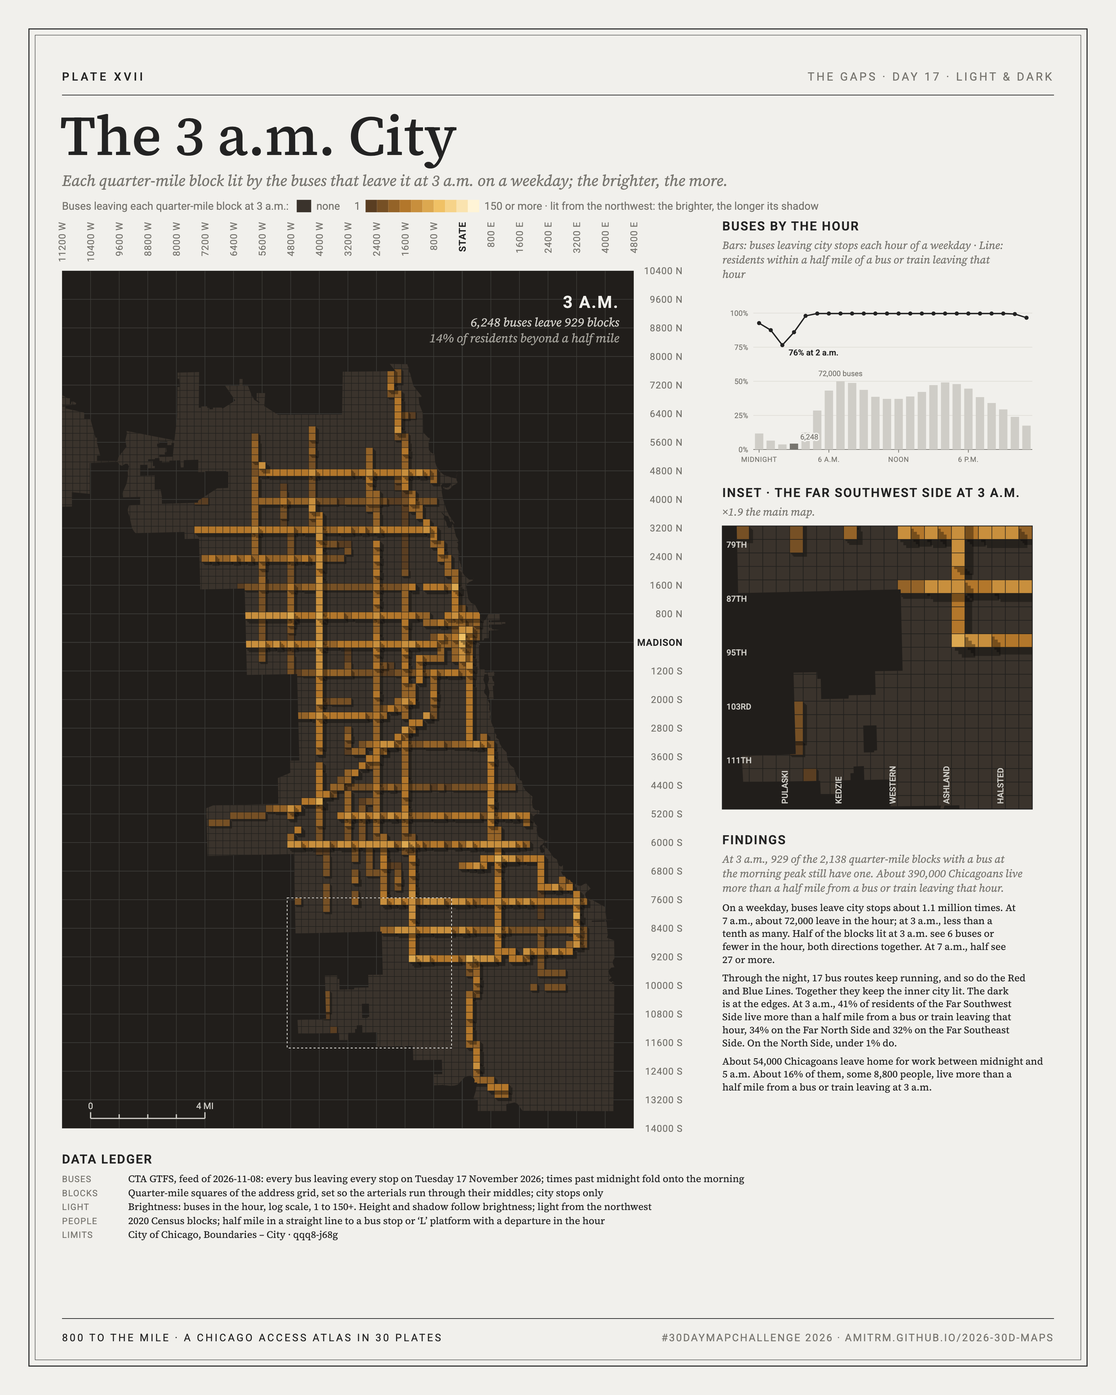
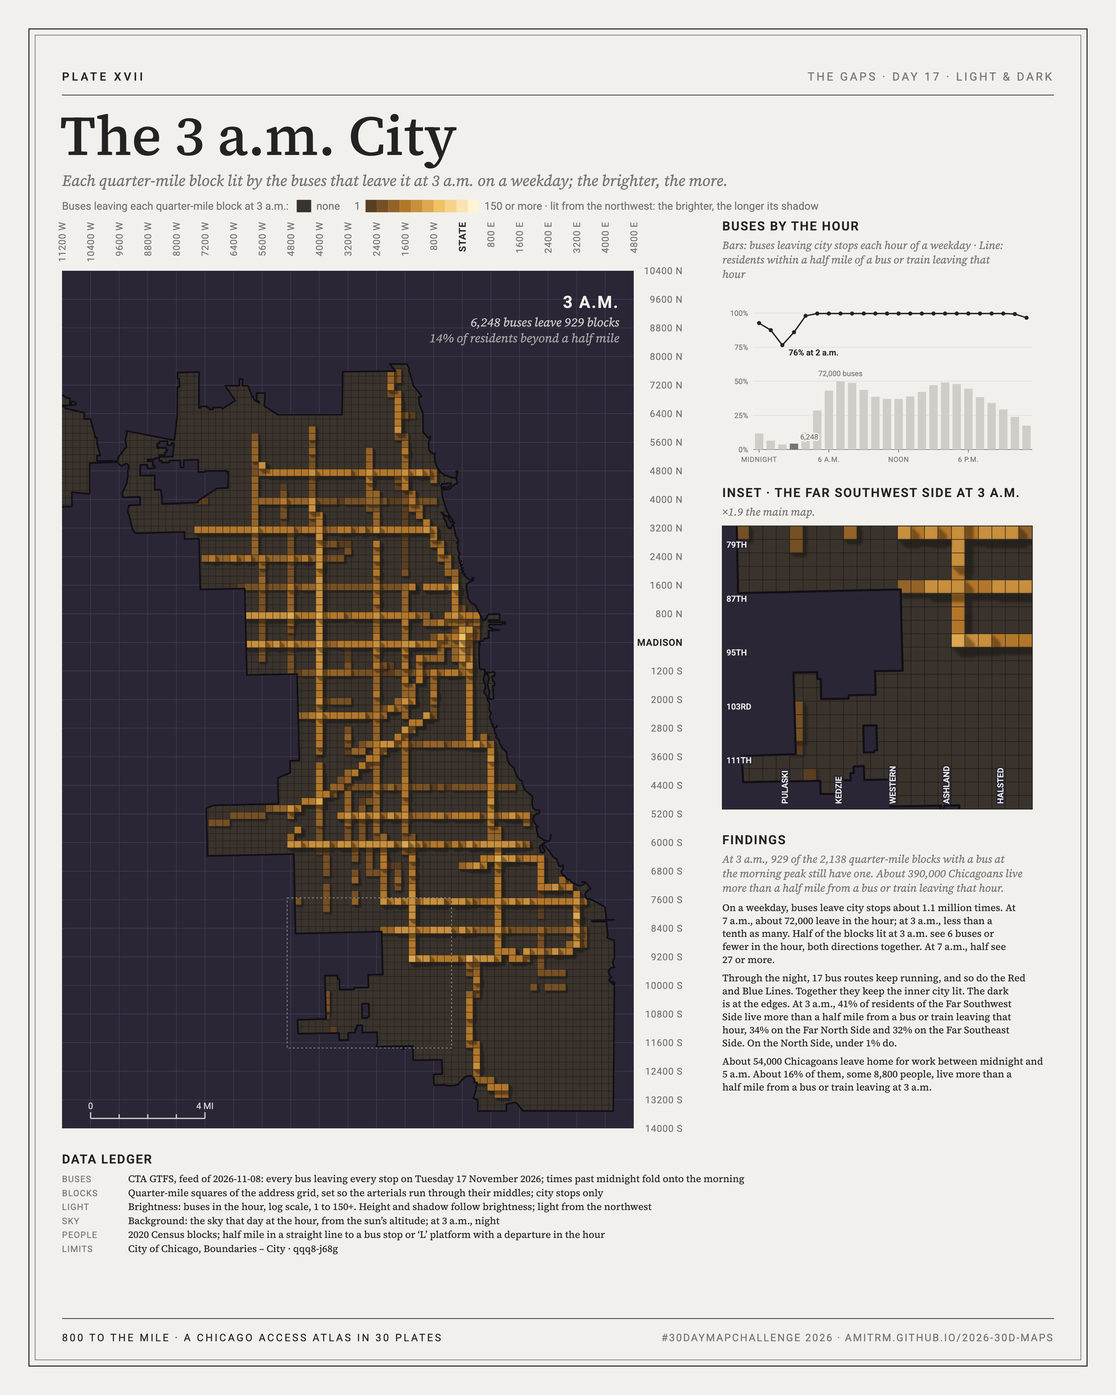
Day 17: sky background by hour, soft-edged vector shadows, city-limit line

diff --git a/src/plates/day17.js b/src/plates/day17.js
@@ -3,17 +3,21 @@ import { C, SERIF, esc, text, textWidth, legendBox, wrap, frame, svg } from '../
 import { gridLines, formatAddress, toMiles } from '../lib/grid.js';
 
 // variant 'plate': the full 1080 x 1350 plate (export, download), at 3 a.m.
-// variant 'map': the map alone, with hover hooks, for the day page's left column. It carries 25 states:
-//   <g data-state="all"> (3 a.m., as the plate) and <g data-state="h00">…<g data-state="h23"> (hidden).
+// variant 'map': the map alone, with hover hooks, for the day page's left column. It carries 24 states:
+//   <g data-state="all"> (3 a.m., as the plate) and <g data-state="h00">…<g data-state="h23"> (hidden),
+//   except h03, which is 'all'.
 // variant 'chart': buses leaving city stops each hour and the share of residents within a half mile of a
 //   departure; each hour is a control, [data-state-key="hNN"], that shows that hour on the map and inset.
 // variant 'inset': the Far Southwest Side, with the same 25 states.
-// The map is made of light and shadow only. Each quarter-mile block of the address grid (centered on the
-// quarter-mile lines, so the half-mile arterials run through the middle of a block) is lit by the buses
-// leaving its stops in the hour: brighter = more. Each block also stands up in proportion to its light,
-// toward a light in the northwest, and casts a mild shadow to the southeast (an SVG filter per class:
-// the class's blocks, offset along the light, in black at SHADOW opacity). Classes are drawn from dim to
-// bright, so a taller block covers the shadows that fall on it. Thin gutters mark the blocks.
+// The map is made of light and shadow only. Each quarter-mile block of the address grid (set so the
+// arterials run through the middle of a block) is lit by the buses leaving its stops in the hour:
+// brighter = more. Each block also stands up in proportion to its light, toward a light in the
+// northwest, and casts a shadow to the southeast (per class, the class's blocks swept along the light,
+// drawn as exact polygons; each class's sweep is masked off blocks as tall or taller, and all sweeps sit
+// in one group at SHADOW opacity, so a block in two shadows darkens once, with a slight blur, SOFT, on
+// the group's edges). Thin gutters mark the blocks.
+// The background is the sky of that day at that hour (data.hours.sky, from the sun's altitude in the
+// notebook): night to day, SKY[mode]. The city limit is a line in a darker shade of that sky.
 
 // buses leaving a block in the hour: class c (1–10) from BREAKS[c - 1]
 export const BREAKS = [1, 2, 4, 7, 12, 20, 35, 60, 100, 150];
@@ -21,6 +25,7 @@ const CAP = 150;
 const ALT = 38; // the light's altitude, degrees
 const HMAX = 1.3; // the brightest block's height, in blocks
 const SHADOW = 0.34;
+const SOFT = 1.5; // the shadow's blurred edge: Gaussian σ in path units (a block is 20)
 const U = 20; // path units per block
 const GAP = '#1B1B1A'; // gutters
 
@@ -40,7 +45,9 @@ const RAMPS = {
   color: ramp(['#5A3E22', '#B87A2C', '#F2C467', '#FFF4D6']),
 };
 export const NONE = { gray: '#363634', color: '#3A332C' }; // a city block with no bus in the hour
-const FIELD = { gray: C.ink, color: '#211E1B' };
+// the sky: night, then full day (grayscale: the same lightness, without hue)
+const SKY = { gray: ['#262626', '#DDDDDD'], color: ['#2A2636', '#DADFCA'] };
+const mix = (a, b, t) => { const B = rgb(b); return hex(rgb(a).map((v, i) => v + (B[i] - v) * t)); };
 export const shade = (mode, c) => (c === 0 ? NONE[mode] ?? NONE.gray : (RAMPS[mode] ?? RAMPS.gray)(Math.pow((c - 1) / 9, 1.05)));
 const clsOf = (n) => BREAKS.filter((b) => n >= b).length;
 
@@ -60,10 +67,18 @@ export function renderDay17(data, { mode = 'gray', variant = 'plate' } = {}) {
   const hooks = isMap || isChart || isInset;
   const uid = `d17-${variant}-${mode}`;
   const T = isMap || isChart ? 1.3 : 1.15;
-  const field = FIELD[mode] ?? FIELD.gray;
   const night = data.night;
-  const states = hooks ? ['all', ...hours.departures.map((_, h) => `h${String(h).padStart(2, '0')}`)] : ['all'];
+  // 'all' is 3 a.m. (the plate's hour), so the 3 a.m. control shows 'all' and has no state of its own
+  const keyOf = (h) => (h === night ? 'all' : `h${String(h).padStart(2, '0')}`);
+  const states = hooks ? ['all', ...hours.departures.map((_, h) => h).filter((h) => h !== night).map(keyOf)] : ['all'];
   const hourOf = (st) => (st === 'all' ? night : Number(st.slice(1)));
+  const sky = SKY[mode] ?? SKY.gray;
+  const skyOf = (h) => mix(sky[0], sky[1], hours.sky[h]);
+  const onSky = (h) => (hours.sky[h] > 0.5 ? C.ink : C.paper); // text and lines over the sky
+  const tone = (h, t) => mix(skyOf(h), onSky(h), t);
+  const limitOf = (h) => mix(skyOf(h), '#000000', 0.6); // the city limit: a darker shade of the sky
+  // one copy per state (all, then the 24 hours; the plate has 'all' only), hidden but the first
+  const perState = (fn, attrs = '') => states.map((st) => `<g data-state="${st}"${st === 'all' ? '' : ' display="none"'}${attrs}>${fn(hourOf(st))}</g>`).join('');
   const r1 = (v) => (+v.toFixed(1)).toString();
   const miles = (b) => ({ west: toMiles(b.west, 'x'), east: toMiles(b.east, 'x'), south: toMiles(b.south, 'y'), north: toMiles(b.north, 'y') });
   const addrY = (y) => (y >= 0 ? y * 800 : y >= -1 ? y * 1200 : -1200 + (y + 1) * 800);
@@ -76,42 +91,55 @@ export function renderDay17(data, { mode = 'gray', variant = 'plate' } = {}) {
   const cy = (j) => rows[j][0];
   const yU = (m) => +(((NTOP - m) / G.step) * U).toFixed(2); // miles north -> path units down
 
-  // shadow filters, one per class, in the blocks' own units (the group is scaled to U units a block)
-  const tan = Math.tan((ALT * Math.PI) / 180);
-  const filters = () => {
-    const f = [];
-    for (let c = 1; c <= 10; c++) {
-      const L = ((HMAX * level(c)) / tan) * U / Math.SQRT2; // along x and y, toward the southeast
-      const offs = [1 / 3, 2 / 3, 1].map((p, i) => `<feOffset in="SourceAlpha" dx="${r1(L * p)}" dy="${r1(L * p)}" result="o${i}"/>`).join('');
-      f.push(`<filter id="${uid}-s${c}" filterUnits="userSpaceOnUse" x="${-2 * U}" y="${-2 * U}" width="${(G.nx + 4) * U}" height="${(rows.length + 4) * U}" color-interpolation-filters="sRGB">${offs}<feMerge result="m"><feMergeNode in="o0"/><feMergeNode in="o1"/><feMergeNode in="o2"/></feMerge><feFlood flood-color="#000" flood-opacity="${SHADOW}"/><feComposite in2="m" operator="in" result="sh"/><feMerge><feMergeNode in="sh"/><feMergeNode in="SourceGraphic"/></feMerge></filter>`);
-    }
-    return `<defs>${f.join('')}</defs>`;
-  };
   // one row run of blocks, in path units
   const run = (i0, i1, j) => `M${i0 * U} ${yU(rows[j][2])}h${(i1 - i0 + 1) * U}v${+(yU(rows[j][1]) - yU(rows[j][2])).toFixed(2)}h${-(i1 - i0 + 1) * U}z`;
-  const runs = (list) => {
-    // list: [i, j] of one class; merge horizontal neighbours
+  // list: [i, j] of one class; merge horizontal neighbours into runs [first i, last i, j]
+  const segments = (list) => {
     const rows = new Map();
     for (const [i, j] of list) (rows.get(j) ?? rows.set(j, []).get(j)).push(i);
-    let d = '';
+    const out = [];
     for (const [j, is] of rows) {
       is.sort((a, b) => a - b);
       let a = is[0], b = is[0];
       for (const i of [...is.slice(1), null]) {
         if (i === b + 1) { b = i; continue; }
-        d += run(a, b, j);
+        out.push([a, b, j]);
         if (i != null) a = b = i;
       }
     }
-    return d;
+    return out;
+  };
+  const runs = (list) => segments(list).map(([a, b, j]) => run(a, b, j)).join('');
+  // shadows, as geometry: a run swept toward the southeast along the light, as long as its class
+  // stands tall (the hull of the run and its copy, clockwise, in relative steps)
+  const tan = Math.tan((ALT * Math.PI) / 180);
+  const reach = (c) => ((HMAX * level(c)) / tan) * U / Math.SQRT2; // along x and along y, path units
+  const sweep = ([a, b, j], d) => {
+    const w = (b - a + 1) * U, yt = yU(rows[j][2]), hh = +(yU(rows[j][1]) - yt).toFixed(1), dd = Math.round(d);
+    return `M${a * U} ${yt}h${w}l${dd} ${dd}v${hh}h${-w}l${-dd} ${-dd}z`;
   };
   const inBox = (box) => (c) => !box || (cx(c[0]) >= box.west - 0.2 && cx(c[0]) <= box.east + 0.2 && cy(c[1]) >= box.south - 0.2 && cy(c[1]) <= box.north + 0.2);
-  // the lit blocks of one hour, dim to bright, each class with its shadow
-  const hourLayer = (h, box) => {
+  // the lit blocks of one hour, and their shadows: each class's sweep, masked off the blocks as tall or
+  // taller (its own included), all drawn solid inside one group at SHADOW opacity
+  const hourLayer = (h, box, key) => {
     const by = Array.from({ length: 11 }, () => []);
     for (const c of cells) if (inBox(box)(c)) by[clsOf(c[2][h])].push(c);
-    return by.map((list, c) => (c && list.length ? `<path d="${runs(list)}" fill="${shade(mode, c)}" filter="url(#${uid}-s${c})"/>` : '')).join('');
+    const id = (c) => `${uid}-${key}-b${c}`;
+    const lit = by.map((l, c) => c && l.length > 0);
+    const defs = [], blocks = [], shadows = [];
+    by.forEach((list, c) => {
+      if (!lit[c]) return;
+      const seg = segments(list);
+      defs.push(`<path id="${id(c)}" d="${seg.map(([a, b, j]) => run(a, b, j)).join('')}"/>`);
+      blocks.push(`<use href="#${id(c)}" fill="${shade(mode, c)}"/>`);
+      const taller = by.map((_, t) => (t >= c && lit[t] ? `<use href="#${id(t)}" fill="#000"/>` : '')).join('');
+      defs.push(`<mask id="${id(c)}m" maskUnits="userSpaceOnUse" x="${-4 * U}" y="${-4 * U}" width="${(G.nx + 8) * U}" height="${(rows.length + 8) * U}"><rect x="${-4 * U}" y="${-4 * U}" width="${(G.nx + 8) * U}" height="${(rows.length + 8) * U}" fill="#fff"/>${taller}</mask>`);
+      shadows.push(`<path d="${seg.map((r) => sweep(r, reach(c))).join('')}" mask="url(#${id(c)}m)"/>`);
+    });
+    return `<defs>${defs.join('')}</defs>${blocks.join('')}<g fill="#000" opacity="${SHADOW}" filter="url(#${uid}-soft)">${shadows.join('')}</g>`;
   };
+  // the shadows' soft edge: one blur over the whole shadow layer, in the blocks' units
+  const softDef = `<defs><filter id="${uid}-soft" filterUnits="userSpaceOnUse" x="${-4 * U}" y="${-4 * U}" width="${(G.nx + 8) * U}" height="${(rows.length + 8) * U}"><feGaussianBlur stdDeviation="${SOFT}"/></filter></defs>`;
   // all city blocks, unlit, and the gutters over everything
   const baseLayer = (box) => `<path d="${runs([...dark, ...cells].filter(inBox(box)))}" fill="${NONE[mode] ?? NONE.gray}"/>`;
   const gutters = (box, w) => {
@@ -149,9 +177,9 @@ export function renderDay17(data, { mode = 'gray', variant = 'plate' } = {}) {
   // the state's name and numbers, in the lake
   const stateLabel = (st, x, y, size = 1) => {
     const h = hourOf(st);
-    return text(x, y, hourName(h).toUpperCase(), { size: 17 * size, weight: 600, spacing: 1.2, anchor: 'end', fill: C.paper }) +
-      text(x, y + 19 * size, `${fmt(hours.departures[h])} buses leave ${fmt(hours.lit[h])} blocks`, { size: 12.5 * size, font: SERIF, italic: true, fill: C.fog, anchor: 'end' }) +
-      text(x, y + 35 * size, `${pctEnd(1 - hours.within[h])} of residents beyond a half mile`, { size: 12.5 * size, font: SERIF, italic: true, fill: '#A4A29B', anchor: 'end' });
+    return text(x, y, hourName(h).toUpperCase(), { size: 17 * size, weight: 600, spacing: 1.2, anchor: 'end', fill: onSky(h) }) +
+      text(x, y + 19 * size, `${fmt(hours.departures[h])} buses leave ${fmt(hours.lit[h])} blocks`, { size: 12.5 * size, font: SERIF, italic: true, fill: tone(h, 0.8), anchor: 'end' }) +
+      text(x, y + 35 * size, `${pctEnd(1 - hours.within[h])} of residents beyond a half mile`, { size: 12.5 * size, font: SERIF, italic: true, fill: tone(h, 0.62), anchor: 'end' });
   };
 
   if (isPlate) out.push(frame({
@@ -183,17 +211,19 @@ export function renderDay17(data, { mode = 'gray', variant = 'plate' } = {}) {
 
   if (isPlate || isMap) {
     const city = cityPath(X, Y);
-    out.push(filters());
     out.push(`<defs><clipPath id="${uid}-map"><rect x="${fx0}" y="${fy0}" width="${fx1 - fx0}" height="${fy1 - fy0}"/></clipPath><clipPath id="${uid}-city"><path d="${city}" clip-rule="evenodd"/></clipPath></defs>`);
     out.push(`<g clip-path="url(#${uid}-map)">`);
-    out.push(`<rect x="${fx0}" y="${fy0}" width="${fx1 - fx0}" height="${fy1 - fy0}" fill="${field}"/>`);
-    for (const x of g.xs) out.push(`<line x1="${X(x)}" x2="${X(x)}" y1="${fy0}" y2="${fy1}" stroke="#3B3A37" stroke-width="${x === 0 ? 0.9 : 0.6}"/>`);
-    for (const y of g.ys) out.push(`<line x1="${fx0}" x2="${fx1}" y1="${Y(y)}" y2="${Y(y)}" stroke="#3B3A37" stroke-width="${y === 0 ? 0.9 : 0.6}"/>`);
+    // the sky and the mile grid, per hour
+    const gridD = g.xs.map((x) => `M${r1(X(x))},${r1(fy0)}V${r1(fy1)}`).join('') + g.ys.map((y) => `M${r1(fx0)},${r1(Y(y))}H${r1(fx1)}`).join('');
+    out.push(perState((h) => `<rect x="${fx0}" y="${fy0}" width="${fx1 - fx0}" height="${fy1 - fy0}" fill="${skyOf(h)}"/><path d="${gridD}" fill="none" stroke="${tone(h, 0.11)}" stroke-width="0.6"/>`, ' pointer-events="none"'));
     out.push(`<g clip-path="url(#${uid}-city)"><g transform="${blockGroup(Xm, Ym, k)}">`);
-    out.push(baseLayer(all));
-    for (const st of states) out.push(`<g data-state="${st}"${st === 'all' ? '' : ' display="none"'}>${hourLayer(hourOf(st), all)}</g>`);
+    out.push(softDef, baseLayer(all));
+    for (const st of states) out.push(`<g data-state="${st}"${st === 'all' ? '' : ' display="none"'}>${hourLayer(hourOf(st), all, st)}</g>`);
     out.push(gutters(all, U * 0.07));
     out.push('</g></g>');
+    // the city limit: a line in a darker shade of the sky, at every hour
+    out.push(`<defs><path id="${uid}-limit" d="${city}" fill="none" stroke-linejoin="round"/></defs>`);
+    out.push(perState((h) => `<use href="#${uid}-limit" stroke="${limitOf(h)}" stroke-width="${isMap ? 2 : 1.6}"/>`, ' pointer-events="none"'));
     if (isMap) out.push(hits(Xm, Ym, k, all));
     // state label in the lake
     const lx = fx1 - 14, ly = fy0 + 36;
@@ -205,14 +235,16 @@ export function renderDay17(data, { mode = 'gray', variant = 'plate' } = {}) {
     for (const y of g.ys) out.push(text(colX, Y(y) + gl * 0.35, formatAddress(y, 'y'), { size: gl, spacing: 0.4, anchor: 'end', ...gridLabel(y) }));
 
     // the inset's box
-    out.push(`<rect${hooks ? ` data-inset-frame data-y0="${+Ym(0).toFixed(2)}"` : ''} x="${r1(Xm(IB.west))}" y="${r1(Ym(IB.north))}" width="${r1((IB.east - IB.west) * k)}" height="${r1((IB.north - IB.south) * k)}" fill="none" stroke="${C.paper}" stroke-width="0.7" stroke-dasharray="2 2"/>`);
+    out.push(`<rect${hooks ? ` data-inset-frame data-y0="${+Ym(0).toFixed(2)}"` : ''} x="${r1(Xm(IB.west))}" y="${r1(Ym(IB.north))}" width="${r1((IB.east - IB.west) * k)}" height="${r1((IB.north - IB.south) * k)}" fill="none" stroke="#8C8A84" stroke-width="0.8" stroke-dasharray="2 2"/>`);
 
-    // mile ruler, in fog on the dark field
+    // mile ruler, over the sky, per hour
     const rx = X(ext.west + 800), ry = Y(ext.south) - k * 0.35;
-    out.push(`<line x1="${rx}" x2="${rx + 4 * k}" y1="${ry}" y2="${ry}" stroke="${C.fog}" stroke-width="1.2"/>`);
-    for (let i = 0; i <= 4; i++) out.push(`<line x1="${rx + i * k}" x2="${rx + i * k}" y1="${ry - (i % 4 === 0 ? 6 : 4)}" y2="${ry}" stroke="${C.fog}" stroke-width="1.2"/>`);
-    out.push(text(rx, ry - 9, '0', { size: 7.5 * T, anchor: 'middle', fill: C.fog }));
-    out.push(text(rx + 4 * k, ry - 9, '4 MI', { size: 7.5 * T, anchor: 'middle', fill: C.fog }));
+    out.push(perState((h) => {
+      const c = tone(h, 0.85);
+      let r = `<line x1="${rx}" x2="${rx + 4 * k}" y1="${ry}" y2="${ry}" stroke="${c}" stroke-width="1.2"/>`;
+      for (let i = 0; i <= 4; i++) r += `<line x1="${rx + i * k}" x2="${rx + i * k}" y1="${ry - (i % 4 === 0 ? 6 : 4)}" y2="${ry}" stroke="${c}" stroke-width="1.2"/>`;
+      return r + text(rx, ry - 9, '0', { size: 7.5 * T, anchor: 'middle', fill: c }) + text(rx + 4 * k, ry - 9, '4 MI', { size: 7.5 * T, anchor: 'middle', fill: c });
+    }, ' pointer-events="none"'));
 
     // legend
     const lgs = 9 * T;
@@ -288,7 +320,7 @@ export function renderDay17(data, { mode = 'gray', variant = 'plate' } = {}) {
     }
     if (hooks) out.push(`<style>.${uid}-col .bg{transition:fill .12s}.${uid}-col:hover .bg,.${uid}-col.on .bg{fill:${C.rule}}</style>`);
     for (let h = 0; h < 24; h++) {
-      const key = `h${String(h).padStart(2, '0')}`;
+      const key = keyOf(h);
       if (hooks) {
         const tip = `${fmt(hours.departures[h])} buses leave city stops|${fmt(hours.lit[h])} blocks lit|${pctEnd(hours.within[h])} of residents within a half mile of a bus or train leaving`;
         out.push(`<g class="${uid}-col" data-state-key="${key}" data-tip="${hourName(h)}" data-name="${hourName(h)}" data-shape="none" data-detail="${esc(tip)}"><rect class="bg" x="${r1(xc(h) - colW / 2)}" y="${top - 12}" width="${r1(colW)}" height="${ch + 12}" fill="transparent"/>`);
@@ -332,21 +364,26 @@ export function renderDay17(data, { mode = 'gray', variant = 'plate' } = {}) {
   const ibox = isInset ? { x: 0, y: 0, w: iw, h: Math.round((IBp.north - IBp.south) * ki) } : { x: mx, y: ty + nh + 14, w: iw, h: Math.round((IB.north - IB.south) * ki) };
   const IXm = (m) => ibox.x + (m - IBp.west) * ki;
   const IYm = (m) => ibox.y + (IBp.north - m) * ki;
-  out.push(filters());
   out.push(`<defs><clipPath id="${uid}-inset"><rect x="${ibox.x}" y="${ibox.y}" width="${ibox.w}" height="${ibox.h}"/></clipPath><clipPath id="${uid}-icity"><path d="${cityPath((x) => IXm(toMiles(x, 'x')), (y) => IYm(toMiles(y, 'y')))}" clip-rule="evenodd"/></clipPath></defs>`);
-  out.push(`<g clip-path="url(#${uid}-inset)"><rect x="${ibox.x}" y="${ibox.y}" width="${ibox.w}" height="${ibox.h}" fill="${field}"/>`);
+  out.push(`<g clip-path="url(#${uid}-inset)">`);
+  out.push(perState((h) => `<rect x="${ibox.x}" y="${ibox.y}" width="${ibox.w}" height="${ibox.h}" fill="${skyOf(h)}"/>`, ' pointer-events="none"'));
   out.push(`<g clip-path="url(#${uid}-icity)"><g transform="${blockGroup(IXm, IYm, ki)}">`);
-  out.push(baseLayer(IBp));
-  for (const st of states) out.push(`<g data-state="${st}"${st === 'all' ? '' : ' display="none"'}>${hourLayer(hourOf(st), IBp)}</g>`);
+  out.push(softDef, baseLayer(IBp));
+  for (const st of states) out.push(`<g data-state="${st}"${st === 'all' ? '' : ' display="none"'}>${hourLayer(hourOf(st), IBp, st)}</g>`);
   out.push(gutters(IBp, U * 0.05));
   out.push('</g></g>');
+  const icity = cityPath((x) => IXm(toMiles(x, 'x')), (y) => IYm(toMiles(y, 'y')));
+  out.push(`<defs><path id="${uid}-ilimit" d="${icity}" fill="none" stroke-linejoin="round"/></defs>`);
+  out.push(perState((h) => `<use href="#${uid}-ilimit" stroke="${limitOf(h)}" stroke-width="2"/>`, ' pointer-events="none"'));
   // the half-mile arterials named along the edges
   const ts = 7 * (isInset ? 1.35 : 1.15);
   // beside their block (west of a north-south street, south of an east-west one), clear of its light
   const hb = (ki * G.step) / 2 + 2;
-  const xs = data.inset.streets.x.map(([m, name]) => text(r1(IXm(m) - hb), isInset ? -5 : ibox.y + ibox.h - 5, name, { size: ts, fill: C.fog, weight: 500, rotate: -90 }));
-  out.push(isInset ? `<g data-pin-bottom transform="translate(0 ${ibox.h})">${xs.join('')}</g>` : xs.join(''));
-  for (const [m, name] of data.inset.streets.y) out.push(text(ibox.x + 4, r1(IYm(m) + hb + ts * 0.75), name, { size: ts, fill: C.fog, weight: 500 }));
+  // in the sky's contrast, with a halo of the sky, so they read over the city's blocks at every hour
+  const nameStyle = (h) => ({ size: ts, fill: onSky(h), weight: 500, halo: skyOf(h) });
+  const xs = (h) => data.inset.streets.x.map(([m, name]) => text(r1(IXm(m) - hb), isInset ? -5 : ibox.y + ibox.h - 5, name, { ...nameStyle(h), rotate: -90 })).join('');
+  out.push(isInset ? `<g data-pin-bottom transform="translate(0 ${ibox.h})">${perState(xs, ' pointer-events="none"')}</g>` : perState(xs));
+  out.push(perState((h) => data.inset.streets.y.map(([m, name]) => text(ibox.x + 4, r1(IYm(m) + hb + ts * 0.75), name, nameStyle(h))).join(''), ' pointer-events="none"'));
   if (isInset) out.push(hits(IXm, IYm, ki, IBp));
   out.push('</g>');
   if (isPlate) out.push(`<rect x="${ibox.x}" y="${ibox.y}" width="${ibox.w}" height="${ibox.h}" fill="none" stroke="${C.ink}" stroke-width="0.8"/>`);
@@ -375,6 +412,7 @@ export function renderDay17(data, { mode = 'gray', variant = 'plate' } = {}) {
     ['BUSES', `CTA GTFS, feed of ${data.gtfsDate}: every bus leaving every stop on Tuesday ${dayLong(data.serviceDay)}; times past midnight fold onto the morning`],
     ['BLOCKS', 'Quarter-mile squares of the address grid, set so the arterials run through their middles; city stops only'],
     ['LIGHT', `Brightness: buses in the hour, log scale, 1 to ${CAP}+. Height and shadow follow brightness; light from the northwest`],
+    ['SKY', 'Background: the sky that day at the hour, from the sun’s altitude; at 3 a.m., night'],
     ['PEOPLE', '2020 Census blocks; half mile in a straight line to a bus stop or ‘L’ platform with a departure in the hour'],
     ['LIMITS', 'City of Chicago, Boundaries – City · qqq8-j68g'],
   ];

diff --git a/src/plates/index.js b/src/plates/index.js
@@ -605,7 +605,7 @@ const d17Story = {
   sections: [
     ['Background', [
       `Chicago’s address grid puts a main street every half mile, and nearly every one carries a bus. By day, that promise holds: at ${d17Hour(d17P)}, ${(d17H.within[d17P] * 100).toFixed(1)}% of residents live within a half mile of a bus or train leaving that hour.`,
-      'This map is made of light and shadow only. Each quarter-mile block of the grid is lit by the buses that leave its stops in an hour: the more buses, the brighter. Each block also stands up toward a light in the northwest, so the busiest blocks cast a short shadow. The map shows 3 a.m. on an ordinary weekday.',
+      'This map is made of light and shadow only. Each quarter-mile block of the grid is lit by the buses that leave its stops in an hour: the more buses, the brighter. Each block also stands up toward a light in the northwest, so the busiest blocks cast a shadow. Behind the city, the background follows the sky over Chicago that day: dark from dusk to dawn, light while the sun is up. The map shows 3 a.m. on an ordinary weekday.',
       'Hover or tap an hour in the chart to light the city at that hour. Hover a block for its whole day of buses.',
     ]],
     ['Findings', [
@@ -1088,6 +1088,7 @@ export const plates = {
       ['Buses', `CTA GTFS, feed of ${day17Data.gtfsDate}: every bus leaving every stop on Tuesday ${d17Day(day17Data.serviceDay)}, ${fmt(d17.departuresDay)} departures at city stops. Schedule times past midnight fold onto the morning, so the 24 hours are one ordinary weekday.`, day17Data.sources.gtfs],
       ['Blocks', 'Quarter-mile squares of the address grid, set so the arterials run through their middles: on the quarter-mile lines from State Street, and a sixteenth of a mile south of the lines from Madison, where the stops of the east–west arterials sit. A block counts the buses leaving stops inside it, both directions together, and is drawn when it overlaps the city limits.'],
       ['Light', 'Brightness: buses in the hour, in ten classes on a log scale from 1 to 150 or more. Each block stands as tall as it is bright, up to 1.3 blocks, toward a light in the northwest 38° above the horizon; its shadow darkens what it falls on by about a third.'],
+      ['Sky', `The background is the sky over Chicago on ${d17Day(day17Data.serviceDay)} at the middle of each hour, from the sun’s altitude (NOAA’s solar formulas): night when the sun is more than 6° below the horizon, full day when it is more than 6° above, blended between. Grayscale uses grays of the same lightness. A thin line in a darker shade of the sky marks the city limit.`],
       ['All night', 'A route runs all night when a trip leaves the end of the line in every hour from 1 to 4 a.m. Late runs that finish after 1 a.m. and early runs that start before 4 a.m. do not count.'],
       ['People', `2020 Census: ${fmt(d17.residents)} residents, at their blocks’ internal points. The half mile is a straight line to a CTA bus stop or ‘L’ platform with a departure in the hour, inside the city or not.`, day17Data.sources.census],
       ['Night shift', `Census Bureau, American Community Survey 2020–2024 (5-year), table B08302, time leaving home to go to work: about ${d17About(d17.nightCommuters, 1000)} of ${d17About(d17.commuters, 1000)} Chicago commuters leave between 12:00 and 4:59 a.m. Tract counts are shared out to blocks by population, so block figures are estimates.`, day17Data.sources.acs],
